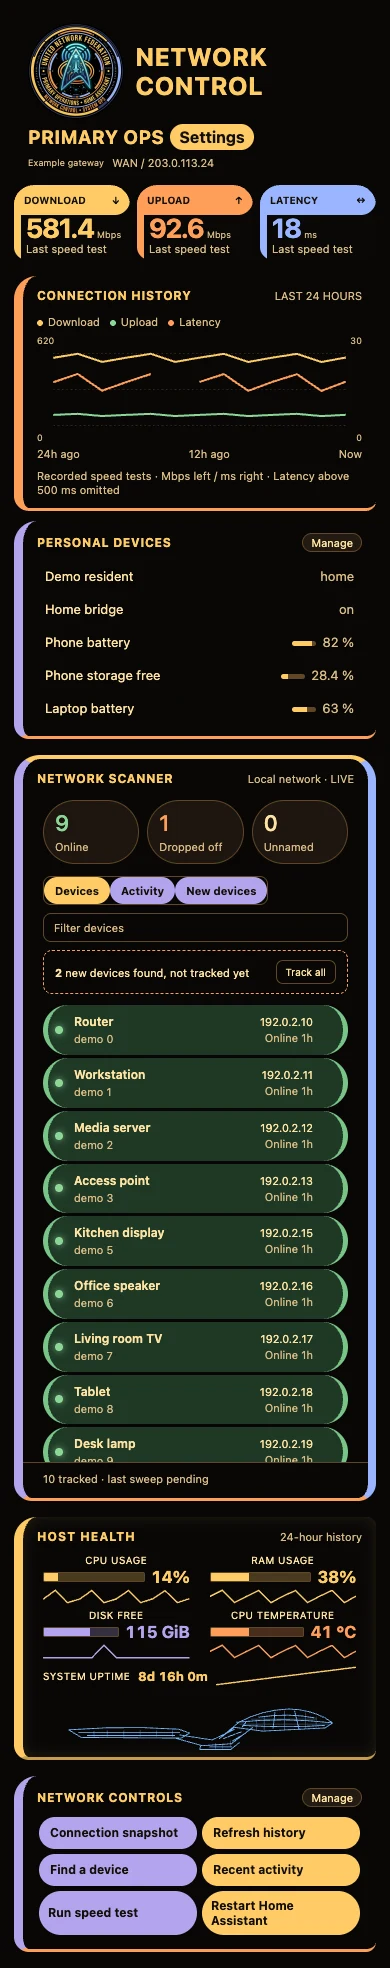
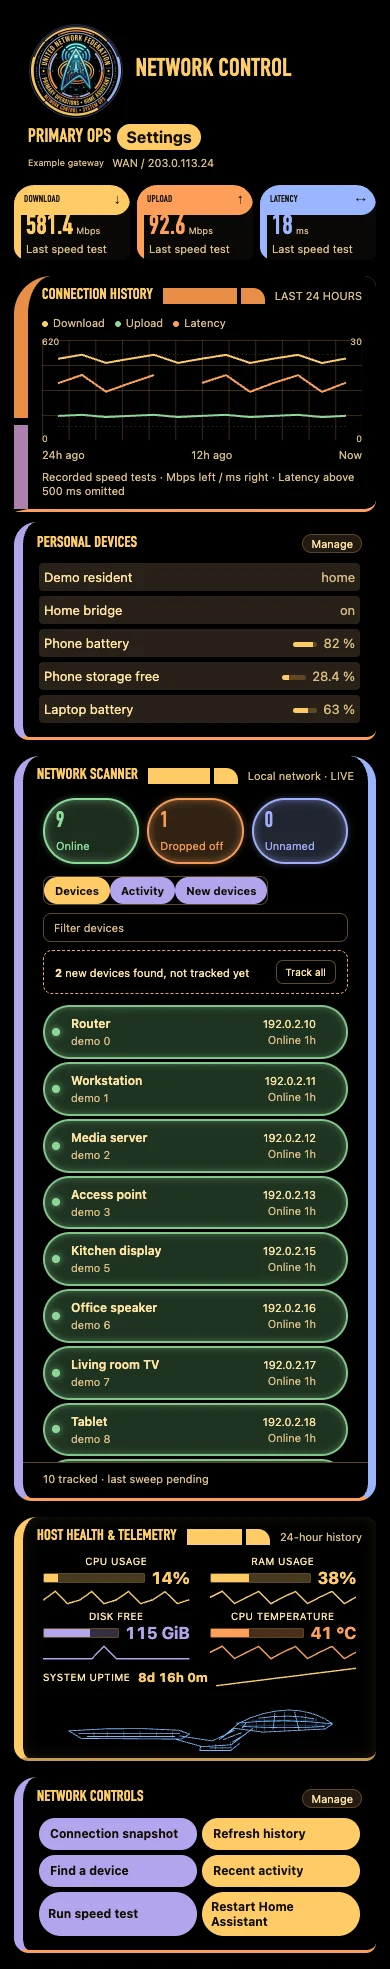
Restyle Star Trek dashboard to match Primary Ops console

diff --git a/custom_components/network_control/www/network-control.css b/custom_components/network_control/www/network-control.css
@@ -1667,3 +1667,66 @@ summary {
   line-height:1.25;
 }
 .shell[data-theme="trek"] .instrument-label {letter-spacing:.04em}
+
+/* Primary Ops console trim. Telemetry plots retain their native sizing. */
+.shell[data-theme="trek"] {
+  --console-face:"DIN Condensed","Arial Narrow","Roboto Condensed",system-ui,sans-serif;
+  --yanke-bg:#000;
+  --yanke-surface:#000;
+  background:#000;
+}
+.shell[data-theme="trek"] :is(#dashboard-title,.trek-ops,.heading h2,.metric .label,.metric .value,.stat b) {
+  font-family:var(--console-face);
+  letter-spacing:.015em;
+}
+.shell[data-theme="trek"] .heading h2 {font-size:clamp(16px,1.55vw,24px);line-height:1}
+.shell[data-theme="trek"] :is(.hist,#host-panel,.scan) .heading::after {
+  content:"";
+  flex:1;
+  min-width:12px;
+  height:1em;
+  background:linear-gradient(90deg,var(--rail,var(--yanke-accent)) 0 calc(100% - 28px),transparent 0 calc(100% - 24px),var(--rail,var(--yanke-accent)) 0);
+  border-radius:0 12px 0 0;
+}
+.shell[data-theme="trek"] .heading .tag {order:1}
+.shell[data-theme="trek"] .hist {
+  --rail:#e98d45;
+  border-inline-start:clamp(14px,3.2vw,64px) solid transparent;
+  background:linear-gradient(#000,#000) padding-box,linear-gradient(to bottom,#e98d45 60%,#000 60% 63%,#ac80ab 63%) border-box;
+  border-radius:38px 12px 12px 3px;
+}
+.shell[data-theme="trek"] .hist .plot {
+  background-image:linear-gradient(#91633866 1px,transparent 1px),linear-gradient(90deg,#91633866 1px,transparent 1px);
+  background-size:100% 25%,8.333% 100%;
+}
+.shell[data-theme="trek"] #host-panel .heading h2::after {content:" & Telemetry"}
+.shell[data-theme="trek"] .scan {border-top:0}
+.shell[data-theme="trek"] .stat {
+  --lamp:#8cda98;
+  border:2px solid var(--lamp);
+  background:color-mix(in srgb,var(--lamp) 19%,#030503);
+  box-shadow:inset 0 0 8px color-mix(in srgb,var(--lamp) 50%,transparent),0 0 7px color-mix(in srgb,var(--lamp) 32%,transparent);
+}
+.shell[data-theme="trek"] .stat:nth-child(2) {--lamp:#f59b58}
+.shell[data-theme="trek"] .stat:nth-child(3) {--lamp:#9faef9}
+.shell[data-theme="trek"] .stat :is(b,small) {color:var(--lamp)}
+.shell[data-theme="trek"] .row.online:not(:has(.rename)) {
+  border:2px solid #82c48a;
+  background:#1e3321;
+  box-shadow:inset 0 0 7px #75b97780;
+}
+.shell[data-theme="trek"] #personal .reading {background:#282017;border-radius:4px;padding-inline:5px}
+@media (min-width:1000px) {
+  .shell[data-theme="trek"] #dashboard-title {font-size:clamp(23px,2.65vw,49px);white-space:nowrap}
+  .shell[data-theme="trek"] header::after {
+    content:"";
+    flex:1;
+    height:clamp(16px,2.5vw,44px);
+    background:linear-gradient(90deg,#f2c457 0 78%,black 78% 80%,#ce9c36 80% 94%,black 94% 96%,#ce9c36 96%);
+    border-radius:0 22px 22px 0;
+  }
+  .shell[data-theme="trek"] .head-right {order:1}
+  .shell[data-theme="trek"] .metric {background:linear-gradient(90deg,var(--tile) 10%,#000 10%)}
+  .shell[data-theme="trek"] .metric :is(.label,.value,.sub) {padding-inline-start:14%}
+  .shell[data-theme="trek"] .metric .value {font-size:clamp(27px,3.4vw,62px)}
+}

diff --git a/custom_components/network_control/__init__.py b/custom_components/network_control/__init__.py
@@ -13,7 +13,7 @@ DOMAIN = "network_control"
 CONFIG_SCHEMA = cv.config_entry_only_config_schema(DOMAIN)
 PLATFORMS = [Platform.SENSOR, Platform.BUTTON, Platform.EVENT]
 CARD_PATH = "/network_control/network-control.js"
-CARD_URL = f"{CARD_PATH}?v=1.18.2"
+CARD_URL = f"{CARD_PATH}?v=1.19.0"
 
 
 async def async_setup(hass, config):
